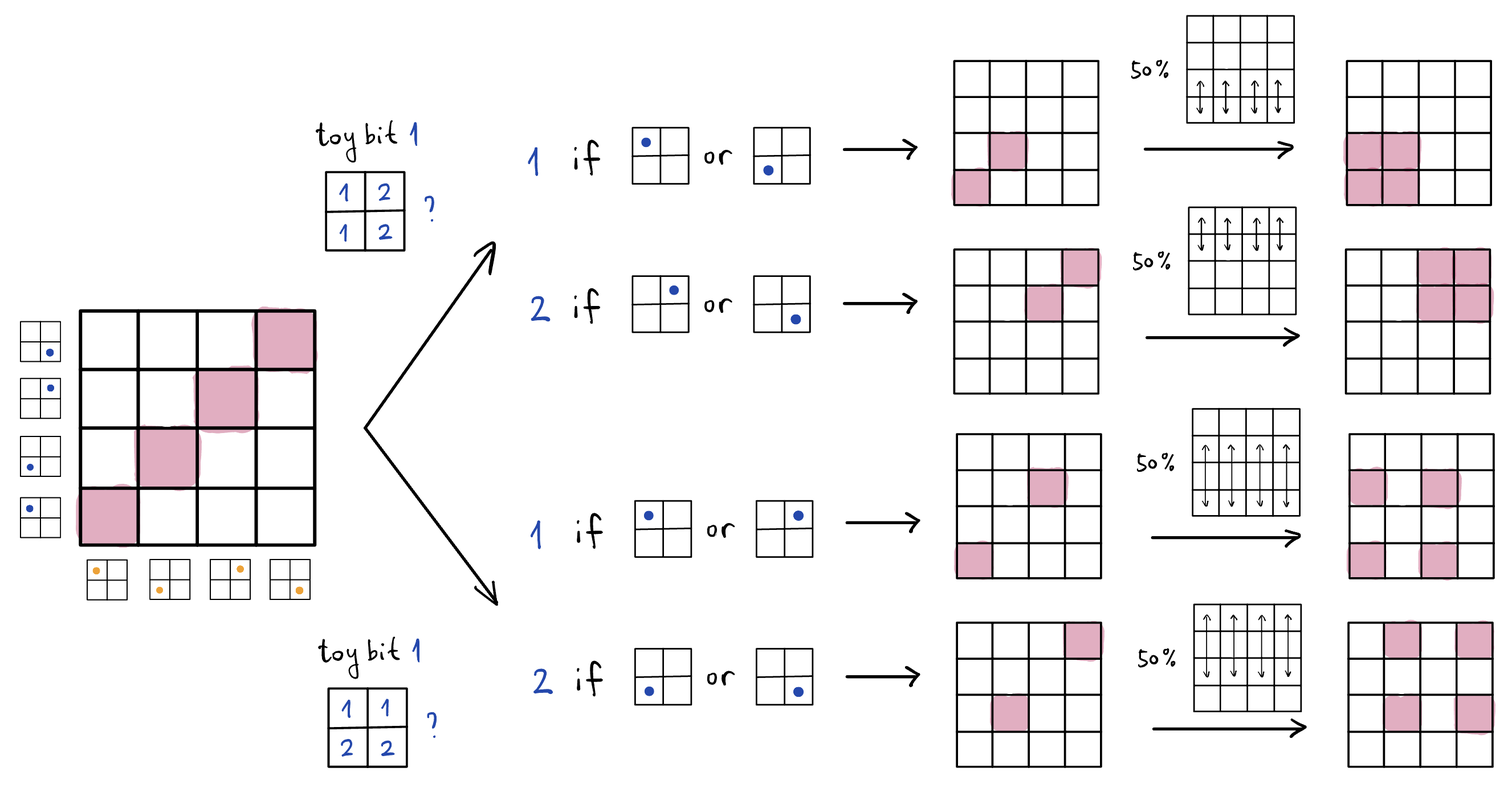
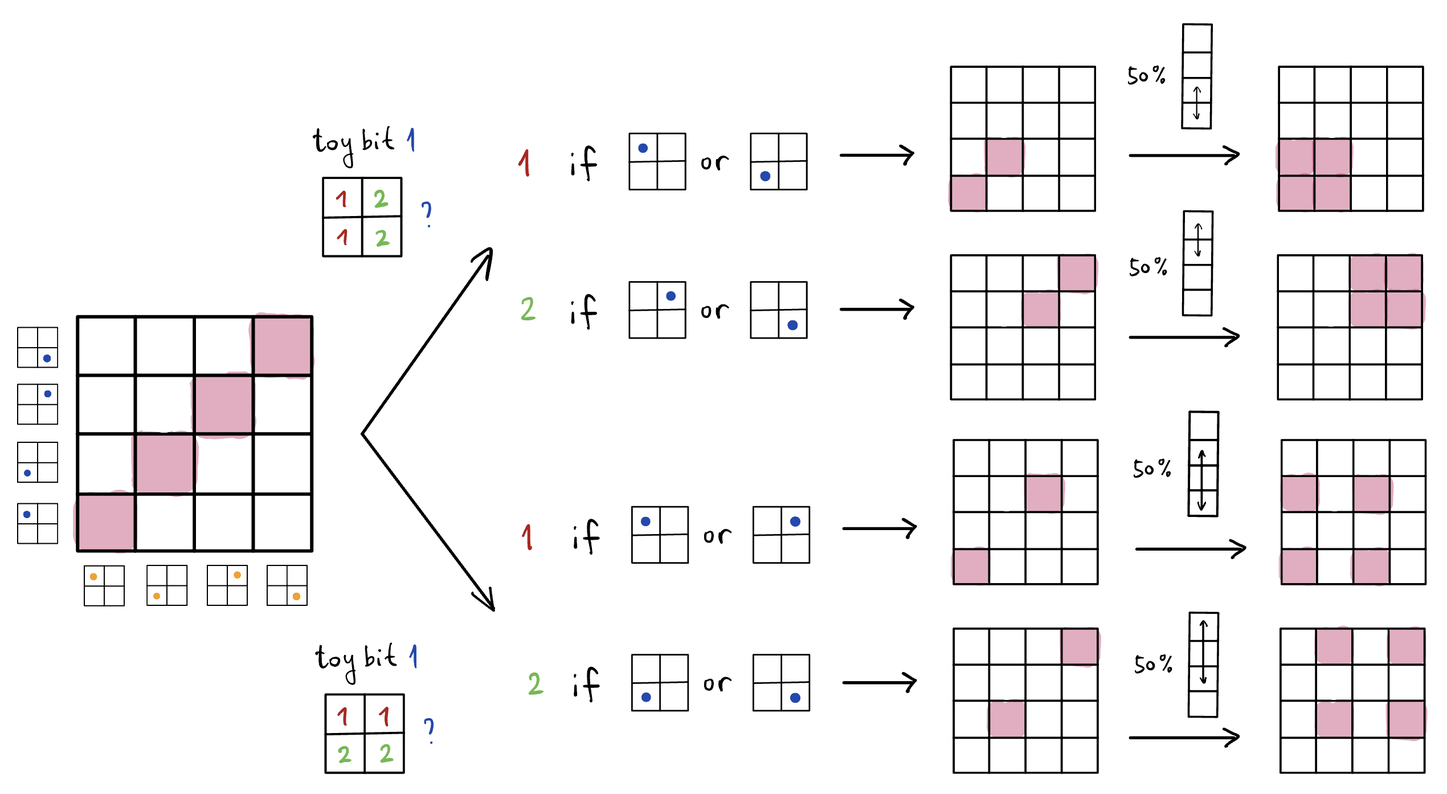
finished adding two toy bit content

diff --git a/content/post/psi-epistemic.md b/content/post/psi-epistemic.md
@@ -1,6 +1,6 @@
 ---
 title:  Is the quantum state a state of knowledge?
-date: 2022-05-25
+date: 2022-06-07
 tags: ["psi-epistemic"]
 mathjax: true
 ---
@@ -56,7 +56,7 @@ You move to a new town to start a new job. On your new daily commute, you drive 
 <img src="/images/psi-epi/billboard.jpeg" alt="billboard" width="450"/>
 </center>
 
-The numbers on the billboard change every day, so you suspect that the numbers have to do with weather. Enjoying a little challenge, you decide to conduct your own experiments to figure out the meaning of the numbers. You go and buy a thermometer (or use a clever contraption of your own device, if you prefer), and see that the highest temperature of the whole day is 18 degrees Celsius when the first entry on the billboard says 18. Aha! Similarly, you measure the wind speed, and realize that the second entry says 19 when the wind speed, averaged over the whole day, is about 19 kilometers per hour. The third one takes you a bit longer to figure out. Eventually you decide to take a bunch of pictures of the local sky, and you find that the billboard says 35% when 35% of the sky is covered by clouds on average. [^cloud] You are a bit stumped by the fourth one, though. You keep measuring more and more weather-related quantities, but you can't seem to find anything that is 40% when the billboard says 40%.
+The numbers on the billboard change every day, so you suspect that the numbers have to do with weather. Enjoying a little challenge, you decide to conduct your own experiments to figure out the meaning of the numbers. You go and buy a thermometer (or use a clever contraption of your own devising, if you prefer), and see that the highest temperature of the whole day is 18 degrees Celsius when the first entry on the billboard says 18. Aha! Similarly, you measure the wind speed, and realize that the second entry says 19 when the wind speed, averaged over the whole day, is about 19 kilometers per hour. The third one takes you a bit longer to figure out. Eventually you decide to take a bunch of pictures of the local sky, and you find that the billboard says 35% when 35% of the sky is covered by clouds on average. [^cloud] You are a bit stumped by the fourth one, though. You keep measuring more and more weather-related quantities, but you can't seem to find anything that is 40% when the billboard says 40%.
 
 [^cloud]: "Average cloud cover" is a field reported by the weather app that I use. I didn't know it is a thing either!
 
@@ -81,12 +81,12 @@ By locality here, I mean the idea that a system can only be influenced by events
 
 [^locality]: More precisely, what I described here is the concept of *local causality*. Locality sometimes encompasses both local causality and a different concept called *separability*, which is the idea that the complete description of an overall system is simply the combination of descriptions of its constituents. Note that the $\psi$-complete view already violates separability, since by the axioms of quantum theory, we know that quantum states are combined via tensor products, not Cartesian products.
 
-Without getting into the historical details, I will present here the simplest way to see the tension between $\psi$-onticity and locality---through the phenomenon of steering. Suppose that Alice and Bob shared a pair of qubits (say, the spin of some particle) in the maximally entangled state, $$\ket{\phi^+} = \frac{\ket{+z}\ket{+z} + \ket{-z}\ket{-z}}{\sqrt{2}}.$$ 
-This is a maximally entangled state, and it has the property that no matter what direction Alice and Bob choose to measure their spins in, they are guaranteed to find them in opposite directions.
+Without getting into the historical details, I will present here the simplest way to see the tension between $\psi$-onticity and locality---through the phenomenon of steering. Suppose that Alice and Bob shared a pair of qubits (say, the spin of some particle) in the quantum state $$\ket{\phi^+} = \frac{\ket{+z}\ket{+z} + \ket{-z}\ket{-z}}{\sqrt{2}}.$$ 
+This is a maximally entangled state, and it has the property that if Alice and Bob both measure their spins in the $z$ direction, they are guaranteed to find them in the same direction (either both $+z$ or $-z$). In a bit more detail, it works like this: If Alice measures her qubit in the {$\ket{+z}, \ket{-z}$} basis, quantum theory predicts that she would get outcome $+z$ and $-z$ with 50-50 probability. If she gets outcome $+z$, then the quantum state of her qubit is immediately updated (or collapsed) to $\ket{+z}$, and the quantum state of Bob's qubit is immediately updated to $\ket{+z}$. This means that Bob is guaranteed to get outcome $+z$ if and when he measures his qubit in the $\{ \ket{+z}, \ket{-z} \}$ basis as well. 
 
-In a bit more detail, it works like this: If Alice measures her qubit in the {$\ket{\uparrow}, \ket{\downarrow}$} basis, quantum theory predicts that she would get outcome $\uparrow$ and $\downarrow$ with 50-50 probability. If she gets outcome $\uparrow$, then the quantum state of her qubit is immediately updated (or collapsed) to $\ket{\uparrow}$, and the quantum state of Bob's qubit is immediately updated to $\ket{\downarrow}$. This means that Bob is guaranteed to get outcome $\downarrow$ if and when he measures his qubit in the $\{ \ket{\uparrow}, \ket{\downarrow} \}$ basis as well. Suppose that Alice instead chooses to measure her qubit in another basis, say, the basis {$\ket{+\hat{n}}, \ket{-\hat{n}}$}, where $\ket{+\hat{n}}$ points angle $\theta$ away from the $\uparrow$ direction, and $\ket{-\hat{n}}$ points the opposite direction from $\ket{+\hat{n}}$. Since the singlet can be equivalently rewritten as $$\ket{\psi^-} = \frac{\ket{+\hat{n}}\ket{-\hat{n}} - \ket{-\hat{n}}\ket{+\hat{n}}}{\sqrt{2}},$$ she would still get outcome $+\hat{n}$ and $-\hat{n}$ with 50-50 odds. And if she got outcome $+\hat{n}$, that would update the quantum state of her qubit to $\ket{+\hat{n}}$, and that of Bob's qubit to $\ket{-\hat{n}}$, guaranteeing that he gets the $-\hat{n}$ outcome when measuring his qubit in the same basis. This way, Alice and Bob would always find their spins in opposite directions.
+So far so good. Now suppose that Alice instead chooses to measure her qubit in another basis, the {$\ket{+x}, \ket{-x}$} basis, where $\ket{\pm x} = (\ket{+z} \pm \ket{-z})/\sqrt{2}$. In physical space, $+x$ is a direction perpendicular to the $z$-axis, and $-x$ is the opposite direction from $+x$. Since the entangled state they share can be equivalently rewritten as $$\ket{\phi^+} = \frac{\ket{+x}\ket{+x} + \ket{-x}\ket{-x}}{\sqrt{2}},$$ Alice would still get outcome $+x$ and $-x$ with 50-50 odds. And if she got outcome $+x$, that would update the quantum state of her qubit to $\ket{+x}$, and that of Bob's qubit to $\ket{+x}$, guaranteeing that he gets the $+x$ outcome when measuring his qubit in the same basis. This way, Alice and Bob would still find their spins in the same direction.
 
-To bring locality into the picture, now note that the above analysis holds no matter how far apart Alice and Bob are separated. Quantum theory predicts that Alice's measurement on her qubit *instantaneously* changes the state of Bob's qubit, even when they are on opposite sides of the galaxy. In particular, by choosing to measure her qubit in the {$\ket{\uparrow}, \ket{\downarrow}$} basis, Alice can make Bob's qubit to be in either state $\ket{\uparrow}$ or state $\ket{\downarrow}$, whereas by measuring her qubit in the {$\ket{+\hat{n}}, \ket{-\hat{n}}$} basis, she makes Bob's qubit be in one of $\ket{+\hat{n}}$ and $\ket{-\hat{n}}$ instead. This is already very problematic if one believes that the quantum state is a state of reality---this means that Alice's action can instantaneously influence the reality lightyears away. This phenomenon is precisely what Einstein termed "spooky action at a distance" [^saad].
+To bring locality into the picture, now note that the above analysis holds no matter how far apart Alice and Bob are separated. Quantum theory predicts that Alice's measurement on her qubit *instantaneously* changes the state of Bob's qubit, even when they are on opposite sides of the galaxy. In particular, by choosing to measure her qubit in the {$\ket{+z}, \ket{-z}$} basis, Alice can make Bob's qubit to be in either state $\ket{+z}$ or state $\ket{-z}$, whereas by measuring her qubit in the {$\ket{+x}, \ket{-x}$} basis, she makes Bob's qubit be in one of $\ket{+x}$ and $\ket{-x}$ instead. This is very problematic if one believes that $\ket{+z}, \ket{-z}, \ket{+x}, \ket{-x}$ are all distinct states of reality---this means that Alice's action can instantaneously influence the reality lightyears away. This phenomenon is precisely what Einstein termed "spooky action at a distance" [^saad].
 
 [^saad]: Note that the usual analysis in a quantum mechanics textbook points out that despite the instantaneous update, Alice and Bob cannot use this to send each other information instantaneously. This is true, but is besides the point. The failure to communicate does not absolve $\psi$-onticity of implying superluminal influences.
 
@@ -107,45 +107,45 @@ Let me now present to you a classical model that contains all of the above "quan
 
 ### One toy bit
 
-A "toy bit", the smallest fundamental system in this model, can be in four possible ontic states. In other words, the *ontic state space* of a toy bit contains four ontic states. To describe this theory, it turns out that a graphical notation is most convenient. A toy bit is usually represented as a 2x2 box, and these are the four possible ontic states of a toy bit:
+A "toy bit", the smallest fundamental system in this model, can be found in four possible ontic states. In other words, the *ontic state space* of a toy bit contains four ontic states. To describe this theory, it turns out that a graphical notation is most convenient. A toy bit is usually represented as a 2x2 box, and these are the four possible ontic states of a toy bit:
 
 <center>
 <img src="/images/psi-epi/ontic-states.jpeg" alt="ontic states" width="450"/>
 </center>
 
-The crucial ingredient of this theory is an *epistemic restriction*---a fundamental limit on the amount of knowledge that any agent can learn about a system. For a toy bit, it is posited that no agent can ever learn its ontic state exactly. Instead, the most they can know is to narrow it down to one of two possibilities. This gives rise to the notion of an *epistemic state*, a state of knowledge by some agent. An epistemic state is represented as a pattern of shaded boxes. For example, the picture on the left is a possible epistemic state, which in turn means that the ontic state is known to be one of the two possibilities on the right.
+The crucial ingredient of this theory is an *epistemic restriction*---a fundamental limit on the amount of knowledge that any agent can learn about a system. For a toy bit, it is posited that no agent can ever learn its ontic state exactly. Instead, the best they can do is to narrow it down to one of two possibilities. This gives rise to the notion of an *epistemic state*, a state of knowledge of some agent. In this graphical notation, an epistemic state is represented as a pattern of shaded boxes. For example, the picture on the left is a possible epistemic state, which in turn means that the ontic state is known to be one of the two possibilities on the right.
 
 <center>
-<img src="/images/psi-epi/epi-ontic-ex.jpeg" alt="example of epistemic/ontic" width="280"/>
+<img src="/images/psi-epi/epi-ontic-ex.jpeg" alt="example of epistemic/ontic" width="350"/>
 </center>
 
 The epistemic restriction means that there are only seven permitted epistemic states for a toy bit, as shown below. It is also possible to know nothing about a toy bit.
 
 <center>
-<img src="/images/psi-epi/all-epis.jpeg" alt="all epistemic states" width="400"/>
+<img src="/images/psi-epi/all-epis.jpeg" alt="all epistemic states" width="350"/>
 </center>
 
 For this to be a complete theory, we need to know how a toy bit evolves, and how it behaves when undergoing measurements. We won't go into the details, but in order to preserve the epistemic restriction, it turns out that the only permitted transformations are *permutations* of ontic states. This means that we can only shuffle the four ontic states around. The shuffling in turn determines how the epistemic state is going to change. For example, below is a series of valid transformations, and their effects on an epistemic state. As we see with the second transformation, sometimes nontrivial transformations can leave the epistemic state unchanged.
 
 <center>
-<img src="/images/psi-epi/transf-ex.jpeg" alt="examples of transformations" width="550"/>
+<img src="/images/psi-epi/transf-ex.jpeg" alt="examples of transformations" width="500"/>
 </center>
 
 When a measurement is made on a toy bit, it also is not allowed to violate the epistemic restriction. This means that one is never allowed to ask which ontic state the toy bit is in. In fact, all allowed measurements are of the form, "which of the two regions is the ontic state in?" In other words, a measurement can only reveal one bit of information. This means also that the measurement outcome is decided *deterministically* by the ontic state that the toy bit is in. In the examples below, the measurement on the left gives outcome 1 deterministically, whereas the measurement on the right returns both outcomes with equal probability. To see why that is, recall that the epistemic state that we are given means that the ontic state is either in the top left (TL) or top right (TR). For both possibilities, when faced with the left measurement ("are you in the top or bottom half?"), the answer is 1. But for the right measurement ("are you in the left or right half?"), TL is going to give outcome 1, while TR gives outcome 2. Since it is not possible to know whether the ontic state was TL or TR to start with, what is observed given this initial epistemic state is that the measurement yields outcomes 1 and 2 with equal probability.
 
 <center>
-<img src="/images/psi-epi/meas-ex.jpeg" alt="examples of measurements" width="600"/>
+<img src="/images/psi-epi/meas-ex.jpeg" alt="examples of measurements" width="450"/>
 </center>
 
-To complete the description of measurements, one final step is needed. For the measurement on the right, note that the measurement result reveals the exact ontic state of the toy bit: TL for outcome 1, and TR for outcome 2. If nothing else happens, then we would have learned more than what is allowed by the epistemic restriction. To preserve the epistemic restriction, then, measurements will necessarily introduce a disturbance, and reshuffle the ontic states within each of the two regions. For the measurement on the right, this updates the epistemic state of the toy bit post-measurement, whereas the epistemic state is left unchanged for the measurement on the left.
+To complete the description of measurements, one final step is needed. For the measurement on the right, note that the measurement result reveals the exact ontic state of the toy bit: TL for outcome 1, and TR for outcome 2. If nothing else happens, then we would have learned more than what is allowed by the epistemic restriction. To preserve the epistemic restriction, then, measurements will necessarily introduce a disturbance, and reshuffle the ontic states within each of the two regions. Formally, this reshuffle is equivalent to doing nothing with 50% probability, and permuting the two ontic states in the region corresponding to the measurement outcome with 50% probability. The end effect of the disturbance is to reprepare the toy bit to be in an epistemic state so that if the measurement were repeated, it is guaranteed to yield the same outcome. In the example above, for the measurement on the right, this updates the epistemic state of the toy bit post-measurement, whereas the epistemic state is left unchanged for the measurement on the left.
 
 <center>
 <img src="/images/psi-epi/update.jpeg" alt="examples of post-measurement update" width="800"/>
 </center>
 
-Hopefully, you can already see the shadows of some familiar quantum phenomenology. Remember, quantum states are analogous to the epistemic states in this theory. For example, it is clear that wavefunction collapse, which is a truly pretty problematic process if one thinks the wavefunction is ontic, is nothing more than the epistemic update upon learning new information after a measurement (and the disturbance it introduces). It is also easy to see that the two measurements discussed in the example above don't commute: doing the left measurement first deterministically yields outcome 1, whereas if it is done after the right measurement, both outcomes are 50-50. This looks an awful lot like the basic behavior in Stern-Gerlach experiments: measuring the spin along the $z$-axis does not commute with measuring it along the $x$-axis. 
+Hopefully, you can already see the shadows of some familiar quantum phenomenology. Remember that quantum states are analogous to the epistemic states in this theory. For example, it is clear that wavefunction collapse, which is a truly pretty problematic process if one thinks the wavefunction is ontic, is nothing more than the epistemic update upon learning new information after a measurement (and accounting for the disturbance it introduces). As another example, it is also easy to see that the two measurements discussed in the example above don't commute: doing the left measurement first deterministically yields outcome 1, whereas if it is done after the right measurement, both outcomes are 50-50. This looks an awful lot like the basic behavior in Stern-Gerlach experiments: measuring the spin along the $z$-axis does not commute with measuring it along the $x$-axis. 
 
-Indeed, to make the connection with quantum theory, we just need to identify the allowed epistemic states on a toy bit with quantum states as the following:
+Indeed, if you are familiar with the quantum theory of qubit, this identification is almost exact:
 
 <center>
 <img src="/images/psi-epi/bloch.jpeg" alt="the Bloch sphere" width="500"/>
@@ -153,12 +153,12 @@ Indeed, to make the connection with quantum theory, we just need to identify the
 
 (In case you are not familiar with this picture, I'm drawing a [Bloch sphere](https://en.wikipedia.org/wiki/Bloch_sphere), which is a common way to visualize the state space of a qubit.)
 
-However, many interesting quantum phenomena only occur when more than one system is considered, such as entanglement and teleportation. Let us now focus our attention on how the toy theory describes two toy bits---the smallest composite system. We will see that the phenomenology here also closely mirrors that of quantum theory.
+However, many interesting quantum phenomena only occur when more than one system is considered, such as entanglement, steering, and teleportation. Let us now focus our attention on how the toy theory describes two toy bits---the smallest composite system. We will see that the phenomenology here also closely mirrors that of quantum theory.
 
 
 ### Two toy bits
 
-Since each toy bit has four ontic states, a pair of toy bits has sixteen ontic state: one just need to specify the ontic state of toy bit 1, and then the ontic state of toy bit 2. We usually represent a pair of toy bits by a 4x4 box. For example, for a toy bit whose ontic state is known to be in the left half, and another whose ontic state is known to be in the right half, the epistemic state of the combined system is this:
+Since each toy bit has four ontic states, a pair of toy bits has sixteen ontic states: one just needs to specify the ontic state of toy bit 1, and then the ontic state of toy bit 2. We usually represent a pair of toy bits by a 4x4 box. For example, for a toy bit whose ontic state is known to be in the left half, and another whose ontic state is known to be in the right half, the epistemic state of the combined system is this:
 
 <center>
 <img src="/images/psi-epi/product-state.jpeg" alt="a product state" width="600"/>
@@ -170,28 +170,66 @@ It turns out that this epistemic state achieves the maximal amount of knowledge 
 <img src="/images/psi-epi/phi-plus.jpeg" alt="the Phi+ Bell state" width="150"/>
 </center>
 
-For this epistemic state, we are completely uncertain about the ontic state of either toy bit---the marginal distribution on each toy bit spans all four ontic state. However, we know that the ontic states of the two bits are *perfectly correlated*. This is analogous to an entangled state, whereas the epistemic state in the first example is analogous to a product state.
+For this epistemic state, we are completely uncertain about the ontic state of either toy bit---the marginal distribution on each toy bit spans all four ontic state. However, we know that the ontic states of the two bits are *perfectly correlated*: either they are both in the top left, or both in the top right, and so on. This is analogous to an entangled state, whereas the epistemic state in the first example is analogous to a product state.
 
-Indeed, we can now reproduce the phenomenon of steering with this epistemic state.
+Indeed, we can now reproduce the phenomenon of steering with this "entangled" epistemic state. In the steering discussion above, Alice and Bob share the maximally entangled state $\ket{\phi^+}$, and Alice can choose to measure her qubit in either the {$\ket{+z}, \ket{-z}$} basis, or the {$\ket{+x}, \ket{-x}$} basis. Here, Alice and Bob would share two toy bits in this "entangled" epistemic state, and Alice can choose to perform the measurement "left or right?" or measurement "up or down?". Since this epistemic state is one of complete ignorance about the ontic state of Alice's toy bit, both outcomes are possible no matter which measurement Alice chooses. However, since the epistemic state is also one that encodes perfect correlation between Alice's and Bob's toy bits---whatever ontic state Alice's is in, so is Bob's---Bob is guaranteed to get the same outcome when he performs the same measurement. Furthermore, Alice's measurement on her toy bit introduces a disturbance on her toy bit in order to preserve the epistemic restriction, in the manner described above. This in turn induces a disturbance on the joint epistemic state, and allows Bob's toy bit to be "steered" into different epistemic states. However, it is clear that no changes whatsoever have happened to the *ontic* state of Bob's toy bit, as all the transformations only permute ontic states in the vertical direction. Within the toy theory, steering can be clearly understood as a combination of local ontic actions plus an epistemic update, and certainly at no point requires any spooky action at a distance.
 
 <center>
 <img src="/images/psi-epi/steering.jpeg" alt="steering in the toy model" width="850"/>
 </center>
 
+Finally, we are now ready to discuss how a version of the [quantum teleportation](https://en.wikipedia.org/wiki/Quantum_teleportation) protocol works in the toy theory. For those that are not familiar, quantum teleportation is a procedure that allows one party to send a quantum state to another, given that they have shared some quantum resource (i.e. entanglement) beforehand and have a means of communicating classically. The surprising thing about this protocol is that an arbitrary quantum state on a qubit can be teleported this way with only 2 bits of classical communication. Quantum states on a qubit are of the form $a \ket{0} + b\ket{1}$, where $a$ and $b$ are complex numbers, and theoretically requires an infinite amount of information to specify completely. The possibility of quantum teleportation is regarded by many as a proof that the information processing capacity of quantum theory fundamentally exceeds that of classical theories, and as a culmination of quantum weirdness.
+
+Here is how the procedure works. Alice has an arbitrary quantum state $\ket{\psi}$ that she wishes Bob to have. Note that she does not need to know what $\ket{\psi}$ is. To run the teleportation protocol, Alice and Bob have previously prepared an entangled pair of particles to be in the state $\ket{\phi^+} = (\ket{00} + \ket{11})/\sqrt{2}$ and each taken one with them. To teleport her qubit, Alice needs to do two things: First, she performs a joint measurement on the qubit she wishes to send and her half of the entangled pair, in the so called *Bell basis*, {$\ket{\phi^+}, \ket{\phi^-}, \ket{\psi^+}, \ket{\psi^-}$}. The basis states are called *Bell states*, and are all maximally entangled:
+$$\ket{\phi^\pm} = \frac{\ket{00} \pm \ket{11}}{\sqrt{2}},$$
+$$\ket{\psi^\pm} = \frac{\ket{01} \pm \ket{10}}{\sqrt{2}}.$$
+
+She is bound to get one of the four outcomes from this measurement, and no matter what outcome she gets, she picks up the phone and text Bob her measurement outcome. With this information, Bob applies a unitary transformation to his half of the entangled pair, according to this table:
+
+| Alice's outcome | Bob's action |
+|:---------------:|:------------:|
+| $\phi^+$ | do nothing |
+| $\phi^-$ | apply $\sigma_z$ |
+| $\psi^+$ | apply $\sigma_x$ |
+| $\psi^-$ | apply $\sigma_z\sigma_x$ |
+
+Since there are only four possible outcomes, only two bits of information need to be communicated. With a few lines of calculation, one can verify that the quantum state of Bob's particle is now $\ket{\psi}$, the original state that Alice wished to teleport. The protocol can be summarized diagrammatically as below.
+
+<center>
+<img src="/images/psi-epi/teleportation-q.jpeg" alt="quantum teleportation" width="550"/>
+</center>
+
+At face value, this is pretty strange. There seems to be no analogue of this in the classical world. But it is certainly not as strange as [some](https://www.nsf.gov/discoveries/disc_summ.jsp?cntn_id=300854&org=NSF&from=news) make it to be---for instance, it is clear that despite the name "teleportation", this protocol is not instantaneous and does not allow for faster-than-light communication, since Alice must let Bob know her measurement outcome via some form of classical communication. It is commonly agreed upon that the core mystery here is one of compression: how come Alice can send Bob an arbitrary, unknown state, effectively communicating an infinite amount of information, by only actually sending him two bits?
+
+The answer that Spekkens' toy theory would give is, unsurprisingly, that this is because the quantum state that Alice manages to teleport is a state of knowledge, not a state of reality. Indeed, one can almost completely reproduce the teleportation protocol in the toy theory. Alice and Bob would need to pre-share an "entangled" pair of toy bit, in the joint epistemic state of perfect correlation discussed above. Similar to a measurement in the Bell basis, Alice now performs this measurement on the toy bit she wishes to teleport and her half of the "entangled" pair:
+
+<center>
+<img src="/images/psi-epi/toy-bell-basis.jpeg" alt="toy bell basis measurement" width="150"/>
+</center>
+
+She then texts Bob the outcome of her measurement (1, 2, 3, or 4), and upon receiving Alice's text, Bob now performs one of four permutations on the ontic states of his toy bit as pictured below.
+
+<center>
+<img src="/images/psi-epi/teleportation-toy.jpeg" alt="toy quantum teleportation" width="630"/>
+</center>
+
+Conceptually, it is not too hard to explain why this would work. Alice and Bob start off by sharing a pair of toy bits, and while they do not know anything about their individual ontic state, they know that they are in the *same* ontic state. Then, Alice performs a measurement to figure out the relationship between the ontic state of the toy bit that she is teleporting, and that of her half of the entangled toy bit pair. Say that she gets outcome 1. That would mean that she now knows that the toy bit to be teleported is in the same ontic state as her half of the entangled pair, and hence also the same ontic state as Bob's half. Now, since quantum states are states of knowledge, teleporation is a task where the goal is to *make one's knowledge about one system be applicable to another system*. If Alice tells Bob that she got outcome 1, then Bob would know that he doesn't need to do anything, and the state of knowledge on Alice's original toy bit is already applicable to Bob's toy bit. Similarly, if Alice gets outcome 2, then Bob knows that in order to get his toy bit to be in the same ontic state as Alice's original toy bit, he needs to perform the permutation that swaps his toy bit left and right. After the permutation, Alice's (or someone else's, since Alice does not necessarily know the state of the toy bit that she is teleporting) original description would now work for Bob's toy bit.
+
+Now, this protocol is still somewhat surprising, because there are six allowed epistemic states on a toy bit (excluding the one of complete ignorance), and still only two bits need to be communicated for Alice to teleport her toy bit. $\log_26$ is still greater than 2, albeit not infinite. Nonetheless, since the nature of teleportation is not actually transporting anything in reality, and is just about transferring the applicability of some knowledge, it is not very surprising that it requires less communication than is naively expected.
+
+
 ### What the toy model tells us
 
-Now, this toy theory is distinctively *not* the same as quantum theory. Roughly speaking, while quantum theory corresponds to the whole Bloch ball (i.e. surface + interior), the toy theory only corresponds to the octahedron formed by connecting the six labeled points on the Bloch sphere, called the *stabilizer subtheory* of quantum theory. [^stab] But the toy theory comes extremely close to quantum theory in the sense that it contains a long list of phenomena that feature in quantum theory that are normally considered nonclassical, while failing to reproduce only a few quantum phenomena. It essentially sorts quantum phenomenology into two buckets, by the following table:
+I have said plenty about the specifics of Spekkens' toy theory, and hopefully gave a flavor of how it explains various quantum phenomenoma by resorting to the postulate that quantum states are states of knowledge. While this theory is opertionally distinct from quantum theory---roughly speaking, while quantum theory corresponds to the whole Bloch ball (i.e. surface + interior), the toy theory only corresponds to the octahedron formed by connecting the six labeled points on the Bloch sphere, called the *stabilizer subtheory* of quantum theory[^stab]---it comes extremely close to quantum theory in the sense that it contains a long list of phenomena that feature in quantum theory that are normally considered nonclassical, while failing to reproduce only a few quantum phenomena. It essentially sorts quantum phenomenology into two buckets, by the following table:
 
 [^stab]: This is technically a little bit wrong. It turns out that the theory of a toy bit is subtly different from the stabilizer subtheory of a qubit, but [Catani and Browne](https://iopscience.iop.org/article/10.1088/1367-2630/aa781c/pdf) has shown that the correspondence is exact for systems of all *odd* dimensions. This has to do with the fact that the qubit stabilizer subtheory is actually *contextual*. The toy theory is a noncontextual ontological model, so it cannot possibly reproduce all of the qubit stabilizer subtheory. Contextuality is also on the list of the topics I have planned for the next few blog posts, so stay tuned if you are interested in this point!
-
-This is essentially all one needs to define Spekkens' toy model. As it turns out, this is also all one needs to reproduce a large part of quantum theory. 
 
 | appears in toy theory            | does not appear in toy theory          |
 | :------------------------------: | :------------------------------------: |
 | noncommutativity of measurements | Bell inequality violations             |
 | collapse                         | noncontextuality inequality violations |
-| coherent superposition           | computational speedup                  |
-| no-cloning                       |   |
+| coherent superposition           | computational speedup (if exists)      |
+| no-cloning                       |                                        |
 | interference                     |                                        |
 | ambiguity of mixtures            |                                        |
 | entanglement                     |                                        |
@@ -199,14 +237,13 @@ This is essentially all one needs to define Spekkens' toy model. As it turns out
 | teleportation                    |                                        |
 | and some more ...                |                                        |
 
-I won't be going into the details of how any other phenomenon arises in the toy theory here in this post; if you are curious about a particular phenomenon on this list, you can find the discussion in Spekkens' original [paper](https://arxiv.org/abs/quant-ph/0401052).
 
-There are many reasons why I find the toy theory so exciting. For one, it clarifies that there are at least two varieties of nonclassical phenomena: those that arise in a classical theory with an epistemic restriction, and those that cannot be reproduced in such a theory. This provides us with a simple method to assess the nonclassicality of any seemingly strange phenomenology: is it reproducible in the toy theory or not? In other words, we now have a principled answer to the question of "what is so weird about quantum mechanics?" 
+There are many reasons why I find the toy theory so exciting. For one, it clarifies that there are at least two varieties of nonclassical phenomena: those that arise in a classical theory with an epistemic restriction, and those that cannot be reproduced in such a theory. This provides us with a simple method to assess the nonclassicality of any seemingly strange phenomenology: is it reproducible in the toy theory, or not? In other words, we now have a principled way to answer the question, "What is so weird about quantum mechanics?" 
 Instead of resorting to personal wisdom such as the well-known [Feynman quote](https://www.feynmanlectures.caltech.edu/III_01.html) that interference phenomena "contain the _only_ mystery [of quantum mechanics]" [^interference], we now know that nonlocality and contextuality are the true mysteries of quantum mechanics. To crack open the strange case of quantum theory, we must focus our effort on understanding those.
 
 [^interference]: Actually, one can understand all of the standard phenomenology on an interferometer, including the Elitzur-Vaidman bomb tester, using a framework akin to the toy model presented here. If you are interested in how that works, check out this [recent paper](https://arxiv.org/abs/2111.13727).
 
-To me, Spekkens' toy model is also the single most suggestive piece of evidence about the nature of the quantum state. In the table above, one can't help but notice that the list on the left is very long, and the list on the right is very short. All but a handful of the phenomena we consider quantum are captured by Spekkens' toy model, which is just a classical theory of (restricted) information. It is natural to ask, why? Why is the toy theory so good at producing quantum phenomena and explaining them in terms of a theory of information? And the most logical answer for this is clear: it must be the case that quantum theory *is* also a theory of information. To me, the explanatory power provided by the toy theory is an unequivocal piece of evidence showing that the quantum state is a state of knowledge, rather than a state of reality.
+To me, Spekkens' toy model is also the single most suggestive piece of evidence about the nature of the quantum state. In the table above, one can't help but notice that the list on the left is very long, and the list on the right is very short. All but a handful of the phenomena we consider quantum are captured by Spekkens' toy model, which is just a classical theory of (restricted) information. It is natural to ask, why? Why is the toy theory so good at producing quantum phenomena and explaining them in terms of a theory of information? And the most logical answer for this is clear: it must be the case that quantum theory *is* a theory of information. To me, the explanatory power provided by the toy theory is an unequivocal piece of evidence showing that the quantum state is a state of knowledge, rather than a state of reality.
 
 
 ## Concluding thoughts
@@ -215,7 +252,7 @@ To conclude, I would like to revisit the analogy with the decipherment of Egypti
 
 Could this be what's going on with the interpretation of quantum mechanics, too? The dominant view passed along by our textbooks and existing interpretations is that the quantum state is ontic, a state of reality. This is certainly plausible, but not only is there no good evidence supporting it, it leads to problematic conflict with locality quite readily (at least more readily than with the $\psi$-epistemic view). Spekkens' toy model shows that at least in the context of a subtheory of quantum theory, quantum states behave as if they are states of knowledge. If the parallel with the hieroglyph story continues to hold, then, maybe what will lead to an eventual breakthrough in the interpretation of quantum theory is to embrace the fact that the quantum state is a state of knowledge in general.
 
-All this to say, it is not that I think the $\psi$-epistemic position must be 100% correct. The bottom line is, it is simply very surprising how essentially all interpretational effort has been put into the $\psi$-ontic basket, whereas there is very good evidence that the $\psi$-epistemic approach is also worth investigating, if not more so. Given the evidence on the table, especially Spekkens' toy model, I also think that now any satisfactory interpretation of quantum theory, especially ones that take the $\psi$-ontic approach, must pass the bar of explaining why the quantum state behaves so much like a state of knowledge. 
+All this to say, it is not that I think the $\psi$-epistemic position must be 100% correct. The bottom line is, it is simply makes no sense that essentially all interpretational effort has been put into the $\psi$-ontic basket, whereas there is very good evidence that the $\psi$-epistemic approach is also worth investigating, if not more so. Given the evidence on the table, especially Spekkens' toy model, I also think that now any satisfactory interpretation of quantum theory, especially ones that take the $\psi$-ontic approach, must pass the bar of explaining why the quantum state behaves so much like a state of knowledge. 
 
 Finally, let me end by saying that we are probably pretty far from the end of the story, even if you are sympathetic to the $\psi$-epistemic view. We are not where Champollion was in July 1822. If quantum states are states of knowledge, the problem is that we have no idea what the knowledge is *about*. Restricted knowledge about four ontic states gave us something very close to the quantum theory of a qubit, but we *know* that we can't get much closer with simple modifications to Spekkens' toy model, because of two classes of no-go theorems---Bell-like theorems and contextuality no-go theorems. At the end of the day, Spekkens' toy model is a local, noncontextual ontological model, and we know that we must go beyond the assumptions of such a model in order to have any hopes of understanding all the mysteries of quantum theory. 
 
